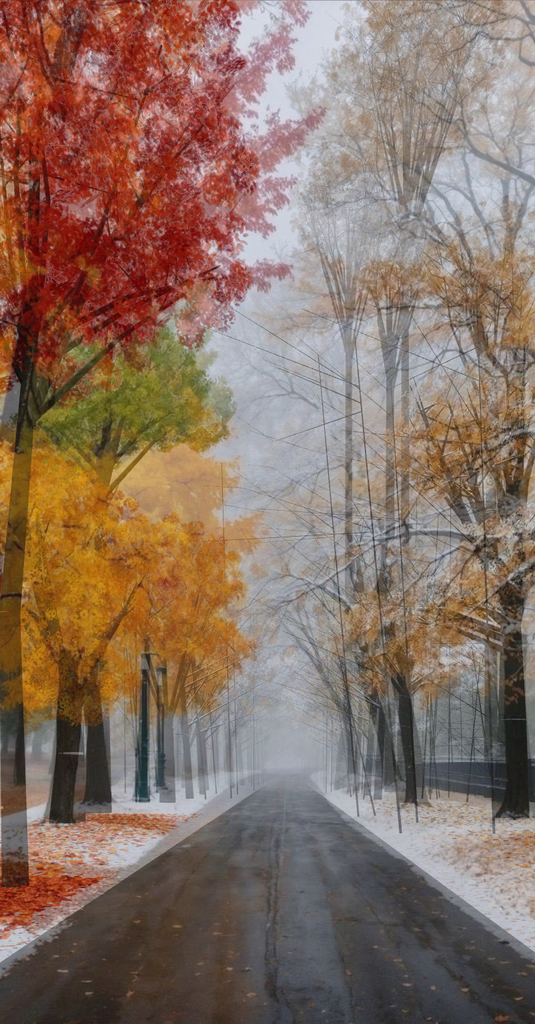
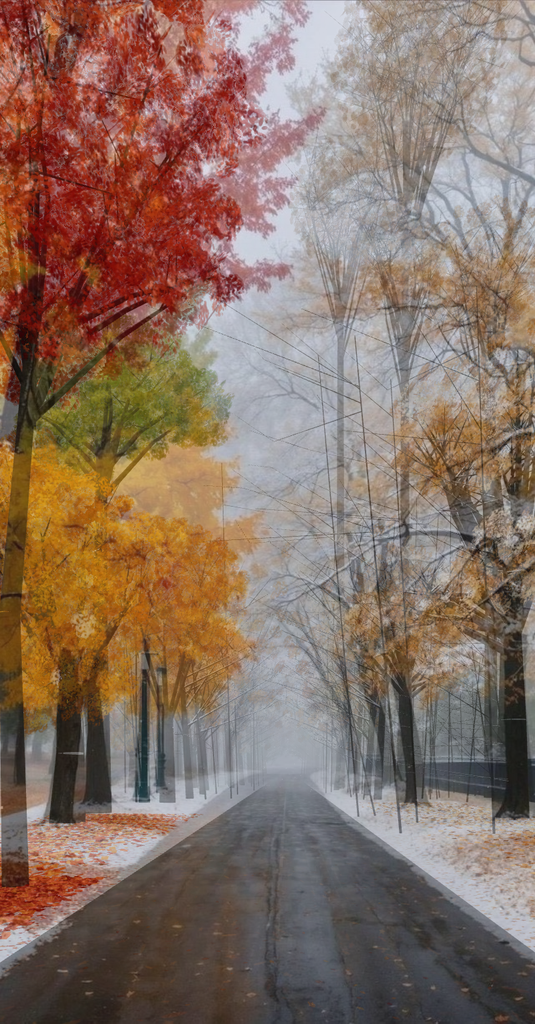
Further shrink road puddle and dry-patch ovals
Keep wet sheen and low leaf density; remove remaining oversized oval
marks that still read as giant footprints on the asphalt.

diff --git a/src/textures.ts b/src/textures.ts
@@ -99,9 +99,9 @@ export function roadTextures(seed: number) {
     }
   }
   // small wet puddle mottling (keep wet sheen, no giant footprint blobs)
-  for (let i = 0; i < 780; i++) {
+  for (let i = 0; i < 900; i++) {
     const x = r() * W, y = r() * H;
-    const w = 5 + r() * 28, h = 6 + r() * 42;
+    const w = 3 + r() * 16, h = 4 + r() * 22;
     const mud = 24 + r() * 22;
     const gr = g.createRadialGradient(x, y, 0, x, y, Math.max(w, h));
     gr.addColorStop(0, `rgba(${mud + 10},${mud + 6},${mud},0.7)`);
@@ -114,12 +114,12 @@ export function roadTextures(seed: number) {
     rr.addColorStop(1, "rgba(40,40,40,0)");
     rg.fillStyle = rr; rg.fillRect(x - w * 2, y - h * 2, w * 4, h * 4);
   }
-  // dry patches (rougher, slightly lighter)
-  for (let i = 0; i < 180; i++) {
-    const x = r() * W, y = r() * H, w = 15 + r() * 50, h = 20 + r() * 90;
-    g.fillStyle = `rgba(70,65,58,${0.08 + r() * 0.12})`;
+  // small dry grit patches (keep micro variation, no giant ovals)
+  for (let i = 0; i < 220; i++) {
+    const x = r() * W, y = r() * H, w = 3 + r() * 12, h = 4 + r() * 16;
+    g.fillStyle = `rgba(70,65,58,${0.06 + r() * 0.1})`;
     g.beginPath(); g.ellipse(x, y, w, h, r() * 3, 0, Math.PI * 2); g.fill();
-    rg.fillStyle = `rgba(200,200,200,${0.25 + r() * 0.35})`;
+    rg.fillStyle = `rgba(200,200,200,${0.2 + r() * 0.3})`;
     rg.beginPath(); rg.ellipse(x, y, w, h, 0, 0, Math.PI * 2); rg.fill();
   }
   // worn centre seam
